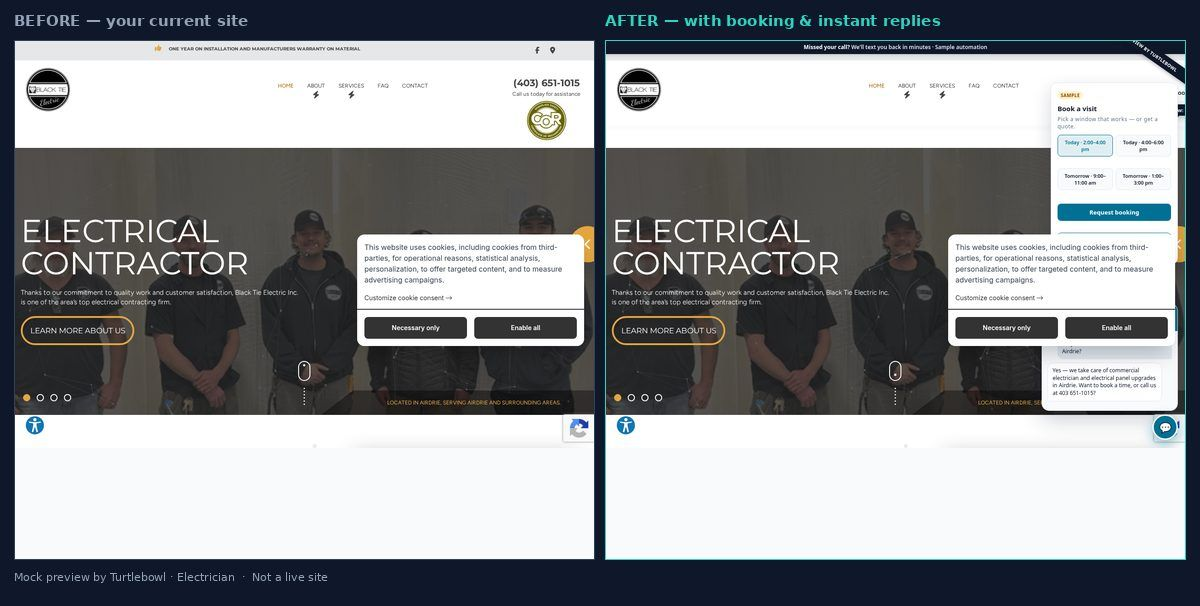
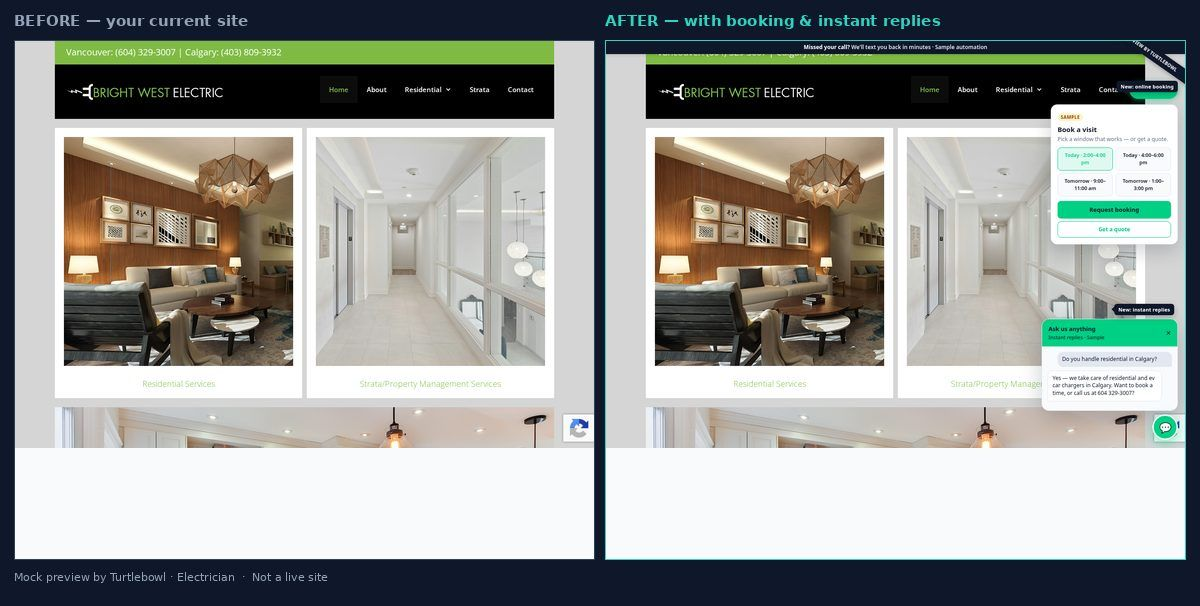
Add preview pages for Honest Electrician, Bright West Electric, Harpers Plumbing

diff --git a/preview/electrician/index.html b/preview/electrician/index.html
@@ -1,41 +1,29 @@
 <!DOCTYPE html>
-<html lang="en-CA">
-<head>
-<meta charset="utf-8" />
-<meta name="viewport" content="width=device-width, initial-scale=1" />
-<meta name="robots" content="noindex, nofollow" />
-<title>Black Tie Electric Inc. — site preview by Turtlebowl</title>
+<html lang="en-CA"><head>
+<meta charset="utf-8"/><meta name="viewport" content="width=device-width, initial-scale=1"/>
+<meta name="robots" content="noindex, nofollow"/>
+<title>Brightwestelectric — site preview by Turtlebowl</title>
 <style>
-  :root { --ink:#0f172a; --muted:#64748b; --bg:#0b1220; --card:#111827; --line:#1f2937; --accent:#14b8a6; }
-  * { box-sizing: border-box; }
-  body { margin:0; font-family: system-ui, -apple-system, Segoe UI, Roboto, sans-serif; background:var(--bg); color:#e5e7eb; }
-  main { max-width: 1080px; margin: 0 auto; padding: 28px 18px 64px; }
-  h1 { font-size: 1.45rem; margin: 0 0 6px; color:#fff; }
-  p { color: var(--muted); line-height: 1.55; max-width: 50rem; }
-  .frame { margin: 20px 0; border: 1px solid var(--line); border-radius: 14px; overflow: hidden; background:#020617; }
-  .frame img { display:block; width:100%; height:auto; }
-  .actions { display:flex; flex-wrap:wrap; gap:10px; margin-top: 14px; }
-  a.btn {
-    display:inline-block; text-decoration:none; font-weight:700; font-size: 0.95rem;
-    padding: 12px 16px; border-radius: 999px; background: var(--accent); color: #042f2e;
-  }
-  a.btn.secondary { background: transparent; color:#e5e7eb; border:1px solid #334155; }
-  footer { margin-top: 28px; font-size: 12px; color:#64748b; }
-</style>
-</head>
-<body>
-<main>
-  <h1>Black Tie Electric Inc.</h1>
-  <p>Your current homepage with online booking and instant replies added. This is a mock preview — not a live site.</p>
-  <div class="frame">
-    <img src="before-after.jpg" alt="Before and after preview for Black Tie Electric Inc." />
-  </div>
-  <div class="actions">
-    <a class="btn" href="mailto:shobhit@turtlebowl.com?subject=Free%2015-minute%20check-up%20—%20Black%20Tie%20Electric%20Inc.">Book a free 15-minute check-up</a>
-    <a class="btn secondary" href="desktop.jpg">Desktop screenshot</a>
-    <a class="btn secondary" href="mobile.jpg">Mobile screenshot</a>
-  </div>
-  <footer>Mock preview by Turtlebowl, not a live site.</footer>
-</main>
-</body>
-</html>
+:root { --muted:#64748b; --bg:#0b1220; --line:#1f2937; --accent:#14b8a6; }
+* { box-sizing: border-box; }
+body { margin:0; font-family: system-ui,sans-serif; background:var(--bg); color:#e5e7eb; }
+main { max-width:1080px; margin:0 auto; padding:28px 18px 64px; }
+h1 { font-size:1.45rem; margin:0 0 6px; color:#fff; }
+p { color:var(--muted); line-height:1.55; }
+.frame { margin:20px 0; border:1px solid var(--line); border-radius:14px; overflow:hidden; }
+.frame img { display:block; width:100%; height:auto; }
+.actions { display:flex; flex-wrap:wrap; gap:10px; margin-top:14px; }
+a.btn { display:inline-block; text-decoration:none; font-weight:700; padding:12px 16px; border-radius:999px; background:var(--accent); color:#042f2e; }
+a.btn.secondary { background:transparent; color:#e5e7eb; border:1px solid #334155; }
+footer { margin-top:28px; font-size:12px; color:#64748b; }
+</style></head><body><main>
+<h1>Brightwestelectric</h1>
+<p>Your current homepage with online booking and instant replies added. This is a mock preview — not a live site.</p>
+<div class="frame"><img src="before-after.jpg" alt="Before and after preview for Brightwestelectric"/></div>
+<div class="actions">
+<a class="btn" href="mailto:shobhit@turtlebowl.com?subject=Free%2015-minute%20check-up%20—%20Brightwestelectric">Book a free 15-minute check-up</a>
+<a class="btn secondary" href="desktop.jpg">Desktop screenshot</a>
+<a class="btn secondary" href="mobile.jpg">Mobile screenshot</a>
+</div>
+<footer>Mock preview by Turtlebowl, not a live site.</footer>
+</main></body></html>

diff --git a/preview/honestelectrician/index.html b/preview/honestelectrician/index.html
@@ -1,0 +1,29 @@
+<!DOCTYPE html>
+<html lang="en-CA"><head>
+<meta charset="utf-8"/><meta name="viewport" content="width=device-width, initial-scale=1"/>
+<meta name="robots" content="noindex, nofollow"/>
+<title>Honestelectrician — site preview by Turtlebowl</title>
+<style>
+:root { --ink:#0f172a; --muted:#64748b; --bg:#0b1220; --card:#111827; --line:#1f2937; --accent:#14b8a6; }
+* { box-sizing: border-box; }
+body { margin:0; font-family: system-ui,sans-serif; background:var(--bg); color:#e5e7eb; }
+main { max-width:1080px; margin:0 auto; padding:28px 18px 64px; }
+h1 { font-size:1.45rem; margin:0 0 6px; color:#fff; }
+p { color:var(--muted); line-height:1.55; }
+.frame { margin:20px 0; border:1px solid var(--line); border-radius:14px; overflow:hidden; }
+.frame img { display:block; width:100%; height:auto; }
+.actions { display:flex; flex-wrap:wrap; gap:10px; margin-top:14px; }
+a.btn { display:inline-block; text-decoration:none; font-weight:700; padding:12px 16px; border-radius:999px; background:var(--accent); color:#042f2e; }
+a.btn.secondary { background:transparent; color:#e5e7eb; border:1px solid #334155; }
+footer { margin-top:28px; font-size:12px; color:#64748b; }
+</style></head><body><main>
+<h1>Honestelectrician</h1>
+<p>Your current homepage with online booking and instant replies added. This is a mock preview — not a live site.</p>
+<div class="frame"><img src="before-after.jpg" alt="Before and after preview for Honestelectrician"/></div>
+<div class="actions">
+<a class="btn" href="mailto:shobhit@turtlebowl.com?subject=Free%2015-minute%20check-up%20—%20Honestelectrician">Book a free 15-minute check-up</a>
+<a class="btn secondary" href="desktop.jpg">Desktop screenshot</a>
+<a class="btn secondary" href="mobile.jpg">Mobile screenshot</a>
+</div>
+<footer>Mock preview by Turtlebowl, not a live site.</footer>
+</main></body></html>

diff --git a/preview/bright-west-electric/index.html b/preview/bright-west-electric/index.html
@@ -1,0 +1,29 @@
+<!DOCTYPE html>
+<html lang="en-CA"><head>
+<meta charset="utf-8"/><meta name="viewport" content="width=device-width, initial-scale=1"/>
+<meta name="robots" content="noindex, nofollow"/>
+<title>Brightwestelectric — site preview by Turtlebowl</title>
+<style>
+:root { --muted:#64748b; --bg:#0b1220; --line:#1f2937; --accent:#14b8a6; }
+* { box-sizing: border-box; }
+body { margin:0; font-family: system-ui,sans-serif; background:var(--bg); color:#e5e7eb; }
+main { max-width:1080px; margin:0 auto; padding:28px 18px 64px; }
+h1 { font-size:1.45rem; margin:0 0 6px; color:#fff; }
+p { color:var(--muted); line-height:1.55; }
+.frame { margin:20px 0; border:1px solid var(--line); border-radius:14px; overflow:hidden; }
+.frame img { display:block; width:100%; height:auto; }
+.actions { display:flex; flex-wrap:wrap; gap:10px; margin-top:14px; }
+a.btn { display:inline-block; text-decoration:none; font-weight:700; padding:12px 16px; border-radius:999px; background:var(--accent); color:#042f2e; }
+a.btn.secondary { background:transparent; color:#e5e7eb; border:1px solid #334155; }
+footer { margin-top:28px; font-size:12px; color:#64748b; }
+</style></head><body><main>
+<h1>Brightwestelectric</h1>
+<p>Your current homepage with online booking and instant replies added. This is a mock preview — not a live site.</p>
+<div class="frame"><img src="before-after.jpg" alt="Before and after preview for Brightwestelectric"/></div>
+<div class="actions">
+<a class="btn" href="mailto:shobhit@turtlebowl.com?subject=Free%2015-minute%20check-up%20—%20Brightwestelectric">Book a free 15-minute check-up</a>
+<a class="btn secondary" href="desktop.jpg">Desktop screenshot</a>
+<a class="btn secondary" href="mobile.jpg">Mobile screenshot</a>
+</div>
+<footer>Mock preview by Turtlebowl, not a live site.</footer>
+</main></body></html>

diff --git a/preview/brightwestelectric/index.html b/preview/brightwestelectric/index.html
@@ -1,0 +1,29 @@
+<!DOCTYPE html>
+<html lang="en-CA"><head>
+<meta charset="utf-8"/><meta name="viewport" content="width=device-width, initial-scale=1"/>
+<meta name="robots" content="noindex, nofollow"/>
+<title>Brightwestelectric — site preview by Turtlebowl</title>
+<style>
+:root { --muted:#64748b; --bg:#0b1220; --line:#1f2937; --accent:#14b8a6; }
+* { box-sizing: border-box; }
+body { margin:0; font-family: system-ui,sans-serif; background:var(--bg); color:#e5e7eb; }
+main { max-width:1080px; margin:0 auto; padding:28px 18px 64px; }
+h1 { font-size:1.45rem; margin:0 0 6px; color:#fff; }
+p { color:var(--muted); line-height:1.55; }
+.frame { margin:20px 0; border:1px solid var(--line); border-radius:14px; overflow:hidden; }
+.frame img { display:block; width:100%; height:auto; }
+.actions { display:flex; flex-wrap:wrap; gap:10px; margin-top:14px; }
+a.btn { display:inline-block; text-decoration:none; font-weight:700; padding:12px 16px; border-radius:999px; background:var(--accent); color:#042f2e; }
+a.btn.secondary { background:transparent; color:#e5e7eb; border:1px solid #334155; }
+footer { margin-top:28px; font-size:12px; color:#64748b; }
+</style></head><body><main>
+<h1>Brightwestelectric</h1>
+<p>Your current homepage with online booking and instant replies added. This is a mock preview — not a live site.</p>
+<div class="frame"><img src="before-after.jpg" alt="Before and after preview for Brightwestelectric"/></div>
+<div class="actions">
+<a class="btn" href="mailto:shobhit@turtlebowl.com?subject=Free%2015-minute%20check-up%20—%20Brightwestelectric">Book a free 15-minute check-up</a>
+<a class="btn secondary" href="desktop.jpg">Desktop screenshot</a>
+<a class="btn secondary" href="mobile.jpg">Mobile screenshot</a>
+</div>
+<footer>Mock preview by Turtlebowl, not a live site.</footer>
+</main></body></html>

diff --git a/preview/harpersplumbing/index.html b/preview/harpersplumbing/index.html
@@ -1,0 +1,29 @@
+<!DOCTYPE html>
+<html lang="en-CA"><head>
+<meta charset="utf-8"/><meta name="viewport" content="width=device-width, initial-scale=1"/>
+<meta name="robots" content="noindex, nofollow"/>
+<title>Harpersplumbing — site preview by Turtlebowl</title>
+<style>
+:root { --muted:#64748b; --bg:#0b1220; --line:#1f2937; --accent:#14b8a6; }
+* { box-sizing: border-box; }
+body { margin:0; font-family: system-ui,sans-serif; background:var(--bg); color:#e5e7eb; }
+main { max-width:1080px; margin:0 auto; padding:28px 18px 64px; }
+h1 { font-size:1.45rem; margin:0 0 6px; color:#fff; }
+p { color:var(--muted); line-height:1.55; }
+.frame { margin:20px 0; border:1px solid var(--line); border-radius:14px; overflow:hidden; }
+.frame img { display:block; width:100%; height:auto; }
+.actions { display:flex; flex-wrap:wrap; gap:10px; margin-top:14px; }
+a.btn { display:inline-block; text-decoration:none; font-weight:700; padding:12px 16px; border-radius:999px; background:var(--accent); color:#042f2e; }
+a.btn.secondary { background:transparent; color:#e5e7eb; border:1px solid #334155; }
+footer { margin-top:28px; font-size:12px; color:#64748b; }
+</style></head><body><main>
+<h1>Harpersplumbing</h1>
+<p>Your current homepage with online booking and instant replies added. This is a mock preview — not a live site.</p>
+<div class="frame"><img src="before-after.jpg" alt="Before and after preview for Harpersplumbing"/></div>
+<div class="actions">
+<a class="btn" href="mailto:shobhit@turtlebowl.com?subject=Free%2015-minute%20check-up%20—%20Harpersplumbing">Book a free 15-minute check-up</a>
+<a class="btn secondary" href="desktop.jpg">Desktop screenshot</a>
+<a class="btn secondary" href="mobile.jpg">Mobile screenshot</a>
+</div>
+<footer>Mock preview by Turtlebowl, not a live site.</footer>
+</main></body></html>
